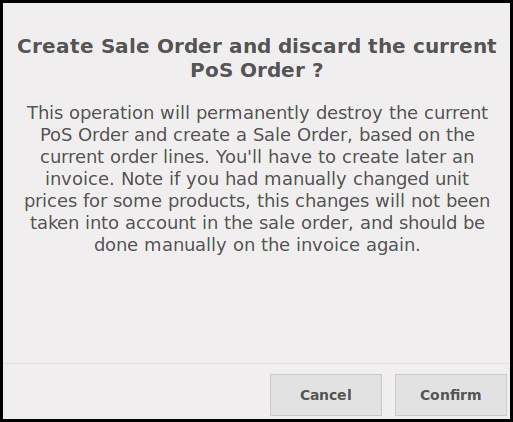
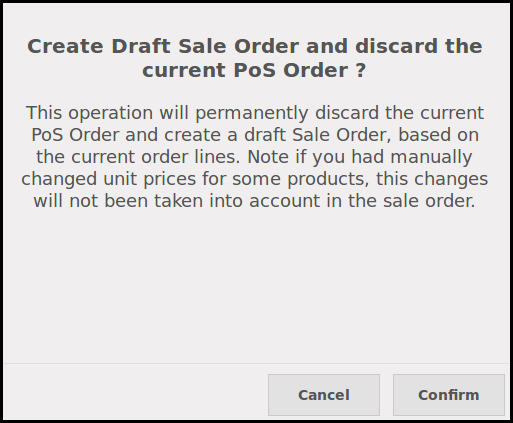
[REF] pos_order_to_sale_order : allow to display multiple buttons ; [FIX] comments and descriptions

diff --git a/pos_order_to_sale_order/static/src/js/pos_order_to_sale_order.js b/pos_order_to_sale_order/static/src/js/pos_order_to_sale_order.js
@@ -21,13 +21,23 @@ openerp.pos_order_to_sale_order = function(instance, local) {
         template: 'CreateSaleOrderButtonWidget',
 
         init: function(parent, options){
+            console.log(options);
             this._super(parent, options);
-            this.display_text = _t("Create Draft Order");
-            if (this.pos.config.iface_create_sale_order_action == 'confirmed_order'){
-                this.display_text = _t("Create Confirmed Order");
+            this.sale_order_state = options.sale_order_state;
+            if (this.sale_order_state == 'draft') {
+                this.display_text = _t("Create Draft Order");
+                this.confirmation_message = _t('Create Draft Sale Order and discard the current PoS Order ?');
+                this.confirmation_comment = _t("This operation will permanently discard the current PoS Order and create a draft Sale Order, based on the current order lines. Note if you had manually changed unit prices for some products, this changes will not been taken into account in the sale order.");
             }
-            if (this.pos.config.iface_create_sale_order_action == 'delivered_picking'){
-                this.display_text = _t("Create Delivered Picking");
+            else if (options.sale_order_state == 'confirmed') {
+                this.display_text = _t("Create Confirmed Order");
+                this.confirmation_message = _t('Create Confirmed Sale Order and discard the current PoS Order ?');
+                this.confirmation_comment = _t("This operation will permanently discard the current PoS Order and create a confirmed Sale Order, based on the current order lines. Note if you had manually changed unit prices for some products, this changes will not been taken into account in the sale order, and should be done manually on the invoice again.");
+            }
+            else if (options.sale_order_state == 'delivered') {
+                this.display_text = _t("Create Delivered Order");
+                this.confirmation_message = _t('Create Delivered Sale Order and discard the current PoS Order ?');
+                this.confirmation_comment = _t("This operation will permanently discard the current PoS Order and create a confirmed Sale Order, based on the current order lines. The according picking will be marked as delivered.\n Note if you had manually changed unit prices for some products, this changes will not been taken into account in the sale order, and should be done manually on the invoice again.");
             }
         },
 
@@ -45,7 +55,7 @@ openerp.pos_order_to_sale_order = function(instance, local) {
                     return;
                 }
                 // Check Customer
-                if (current_order.get('client') ===  null){
+                if (!current_order.get('client')){
                     self.pos_widget.screen_selector.show_popup('error',{
                         'message': _t('No customer defined'),
                         'comment': _t('You should select a customer in order to create a Sale Order. Please select one by clicking the order tab.'),
@@ -53,10 +63,11 @@ openerp.pos_order_to_sale_order = function(instance, local) {
                     return;
                 }
                 self.pos.pos_widget.screen_selector.show_popup('confirm', {
-                    message: _t('Create Sale Order and discard the current PoS Order ?'),
-                    comment: _t("This operation will permanently destroy the current PoS Order and create a Sale Order, based on the current order lines. You'll have to create later an invoice.\n Note if you had manually changed unit prices for some products, this changes will not been taken into account in the sale order, and should be done manually on the invoice again."),
+                    message: self.confirmation_message,
+                    comment: self.confirmation_comment,
                     confirm: function(){
                         var SaleOrderModel = new instance.web.Model('sale.order');
+                        current_order.sale_order_state = self.sale_order_state;
                         SaleOrderModel.call('create_order_from_pos', [self.prepare_create_sale_order(current_order)]
                         ).then(function (result) {
                             self.hook_create_sale_order_success(result);
@@ -71,7 +82,10 @@ openerp.pos_order_to_sale_order = function(instance, local) {
 
         // Overload This function to send custom sale order data to server
         prepare_create_sale_order: function(order) {
-            return order.export_as_JSON();
+            var res = order.export_as_JSON();
+            console.log(res);
+            res.sale_order_state = this.sale_order_state;
+            return res;
         },
 
         // Overload this function to make custom action after Sale order
@@ -106,14 +120,25 @@ openerp.pos_order_to_sale_order = function(instance, local) {
 
     /*************************************************************************
         Extend PosWidget:
-            * Create a new button, depending of the configuration
+            * Create new buttons, depending of the configuration
     */
     module.PosWidget = module.PosWidget.extend({
         build_widgets: function() {
             this._super();
-            if (this.pos.config.iface_create_sale_order){
-                this.create_sale_order_button = new module.CreateSaleOrderButtonWidget(this, {});
-                this.create_sale_order_button.appendTo(this.pos_widget.$('ul.orderlines'));
+            if (this.pos.config.iface_create_draft_sale_order){
+                this.create_draft_sale_order_button = new module.CreateSaleOrderButtonWidget(
+                    this, {'sale_order_state': 'draft'});
+                this.create_draft_sale_order_button.appendTo(this.pos_widget.$('ul.orderlines'));
+            }
+            if (this.pos.config.iface_create_confirmed_sale_order){
+                this.create_confirmed_sale_order_button = new module.CreateSaleOrderButtonWidget(
+                    this, {'sale_order_state': 'confirmed'});
+                this.create_confirmed_sale_order_button.appendTo(this.pos_widget.$('ul.orderlines'));
+            }
+            if (this.pos.config.iface_create_delivered_sale_order){
+                this.create_delivered_sale_order_button = new module.CreateSaleOrderButtonWidget(
+                    this, {'sale_order_state': 'delivered'});
+                this.create_delivered_sale_order_button.appendTo(this.pos_widget.$('ul.orderlines'));
             }
         },
     });
@@ -121,16 +146,27 @@ openerp.pos_order_to_sale_order = function(instance, local) {
 
     /*************************************************************************
         Extend OrderWidget:
-            Overload renderElement, to display button when the order change.
+            Overload renderElement, to display buttons when the order change.
     */
     module.OrderWidget = module.OrderWidget.extend({
         renderElement: function(scrollbottom){
             this._super(scrollbottom);
-            if (this.pos_widget.create_sale_order_button) {
-                this.pos_widget.create_sale_order_button.appendTo(
+            if (this.pos_widget.create_draft_sale_order_button) {
+                this.pos_widget.create_draft_sale_order_button.appendTo(
                     this.pos_widget.$('ul.orderlines')
                 );
             }
+            if (this.pos_widget.create_confirmed_sale_order_button) {
+                this.pos_widget.create_confirmed_sale_order_button.appendTo(
+                    this.pos_widget.$('ul.orderlines')
+                );
+            }
+            if (this.pos_widget.create_delivered_sale_order_button) {
+                this.pos_widget.create_delivered_sale_order_button.appendTo(
+                    this.pos_widget.$('ul.orderlines')
+                );
+            }
+
         }
     });
 

diff --git a/pos_order_to_sale_order/models/pos_config.py b/pos_order_to_sale_order/models/pos_config.py
@@ -9,27 +9,19 @@ from openerp import models, fields
 class PosConfig(models.Model):
     _inherit = 'pos.config'
 
-    CREATE_SALE_ORDER_ACTION_SELECTION = [
-        ('draft_order', 'Draft Sale Order'),
-        ('confirmed_order', 'Confirmed Sale Order'),
-        ('delivered_picking', 'Delivered Picking'),
-    ]
-
-    iface_create_sale_order = fields.Boolean(
-        string='Create Sale Orders', default=True,
+    iface_create_draft_sale_order = fields.Boolean(
+        string='Create Draft Sale Orders', default=True,
         help="If checked, the cashier will have the possibility to create"
-        " a Sale Order, based on the current draft PoS Order.\n"
-        " If so, the current PoS Order will be discarded.")
+        " a draft Sale Order, based on the current draft PoS Order.")
 
-    iface_create_sale_order_action = fields.Selection(
-        string='Sale Order Actions', default='delivered_picking',
-        required=True, selection=CREATE_SALE_ORDER_ACTION_SELECTION,
-        help="Choose wich operation will be done after creating a Sale Order"
-        " from a PoS Order:\n"
-        " * 'Draft Sale Order' : The sale order will be created in a draft"
-        "  mode, and could be changed later;\n"
-        " * 'Confirmed Sale Order': The Sale order will be created and"
-        " confirmed\n"
-        " * 'Delivered Picking': The sale Order will be created, and confirmed"
-        ". The related picking will be marked as delivered. Only invoices"
-        " process will be possible")
+    iface_create_confirmed_sale_order = fields.Boolean(
+        string='Create Confirmed Sale Orders', default=True,
+        help="If checked, the cashier will have the possibility to create"
+        " a confirmed Sale Order, based on the current draft PoS Order.")
+
+    iface_create_delivered_sale_order = fields.Boolean(
+        string='Create Delivered Sale Orders', default=True,
+        help="If checked, the cashier will have the possibility to create"
+        " a confirmed sale Order, based on the current draft PoS Order.\n"
+        " the according picking will be marked as delivered. Only invoices"
+        " process will be possible.")

diff --git a/pos_order_to_sale_order/models/sale_order.py b/pos_order_to_sale_order/models/sale_order.py
@@ -42,21 +42,16 @@ class SaleOrder(models.Model):
 
     @api.model
     def create_order_from_pos(self, order_data):
-        session_obj = self.env['pos.session']
-        session = session_obj.browse(order_data['pos_session_id'])
-
         # Create Draft Sale order
         sale_order = self.create(
             self._prepare_order_field_from_pos(order_data))
 
         # Confirm Sale Order
-        if session.config_id.iface_create_sale_order_action in [
-                'confirmed_order', 'delivered_picking']:
+        if order_data['sale_order_state'] in ['confirmed', 'delivered']:
             sale_order.action_button_confirm()
 
         # mark picking as delivered
-        if session.config_id.iface_create_sale_order_action ==\
-                'delivered_picking':
+        if order_data['sale_order_state'] == 'delivered':
             sale_order.picking_ids.force_assign()
             sale_order.picking_ids.do_transfer()
 

diff --git a/pos_order_to_sale_order/README.rst b/pos_order_to_sale_order/README.rst
@@ -8,17 +8,22 @@ POS Order To Sale Order
 =======================
 
 
-This module extends the functionality of point of sale to allow you create
-Sale Orders from the Point of sale.
+This module extends the functionality of point of sale to allow sale orders
+creation from the Point of Sale.
 
-It adds a new button, below the current bill on the point of sale front end UI,
-that allows you to create a Sale order, based on the current PoS Order lines
-and then to discard the current PoS Order.
 
-This module is usefull if you have some customers that come every day in your
-shop, but want to have a unique invoice at the end of the month. With that
-module, you can create a sale order adn deliver products every time to keep
-your stock value correct, and to create a unique invoice, when you want.
+In the POS UI, buttons has been added to create a sale order and discard
+the current POS order.
+
+This module is usefull in many cases, for exemple :
+
+* take orders with a very simple interface
+
+* if you have some customers that come every day in your shop, but want to
+  have a unique invoice at the end of the month. With that module, you can
+  create a sale order and deliver products every time to keep your stock value
+  correct, and to create a unique invoice, when you want.
+
 
 Three options are available:
 
